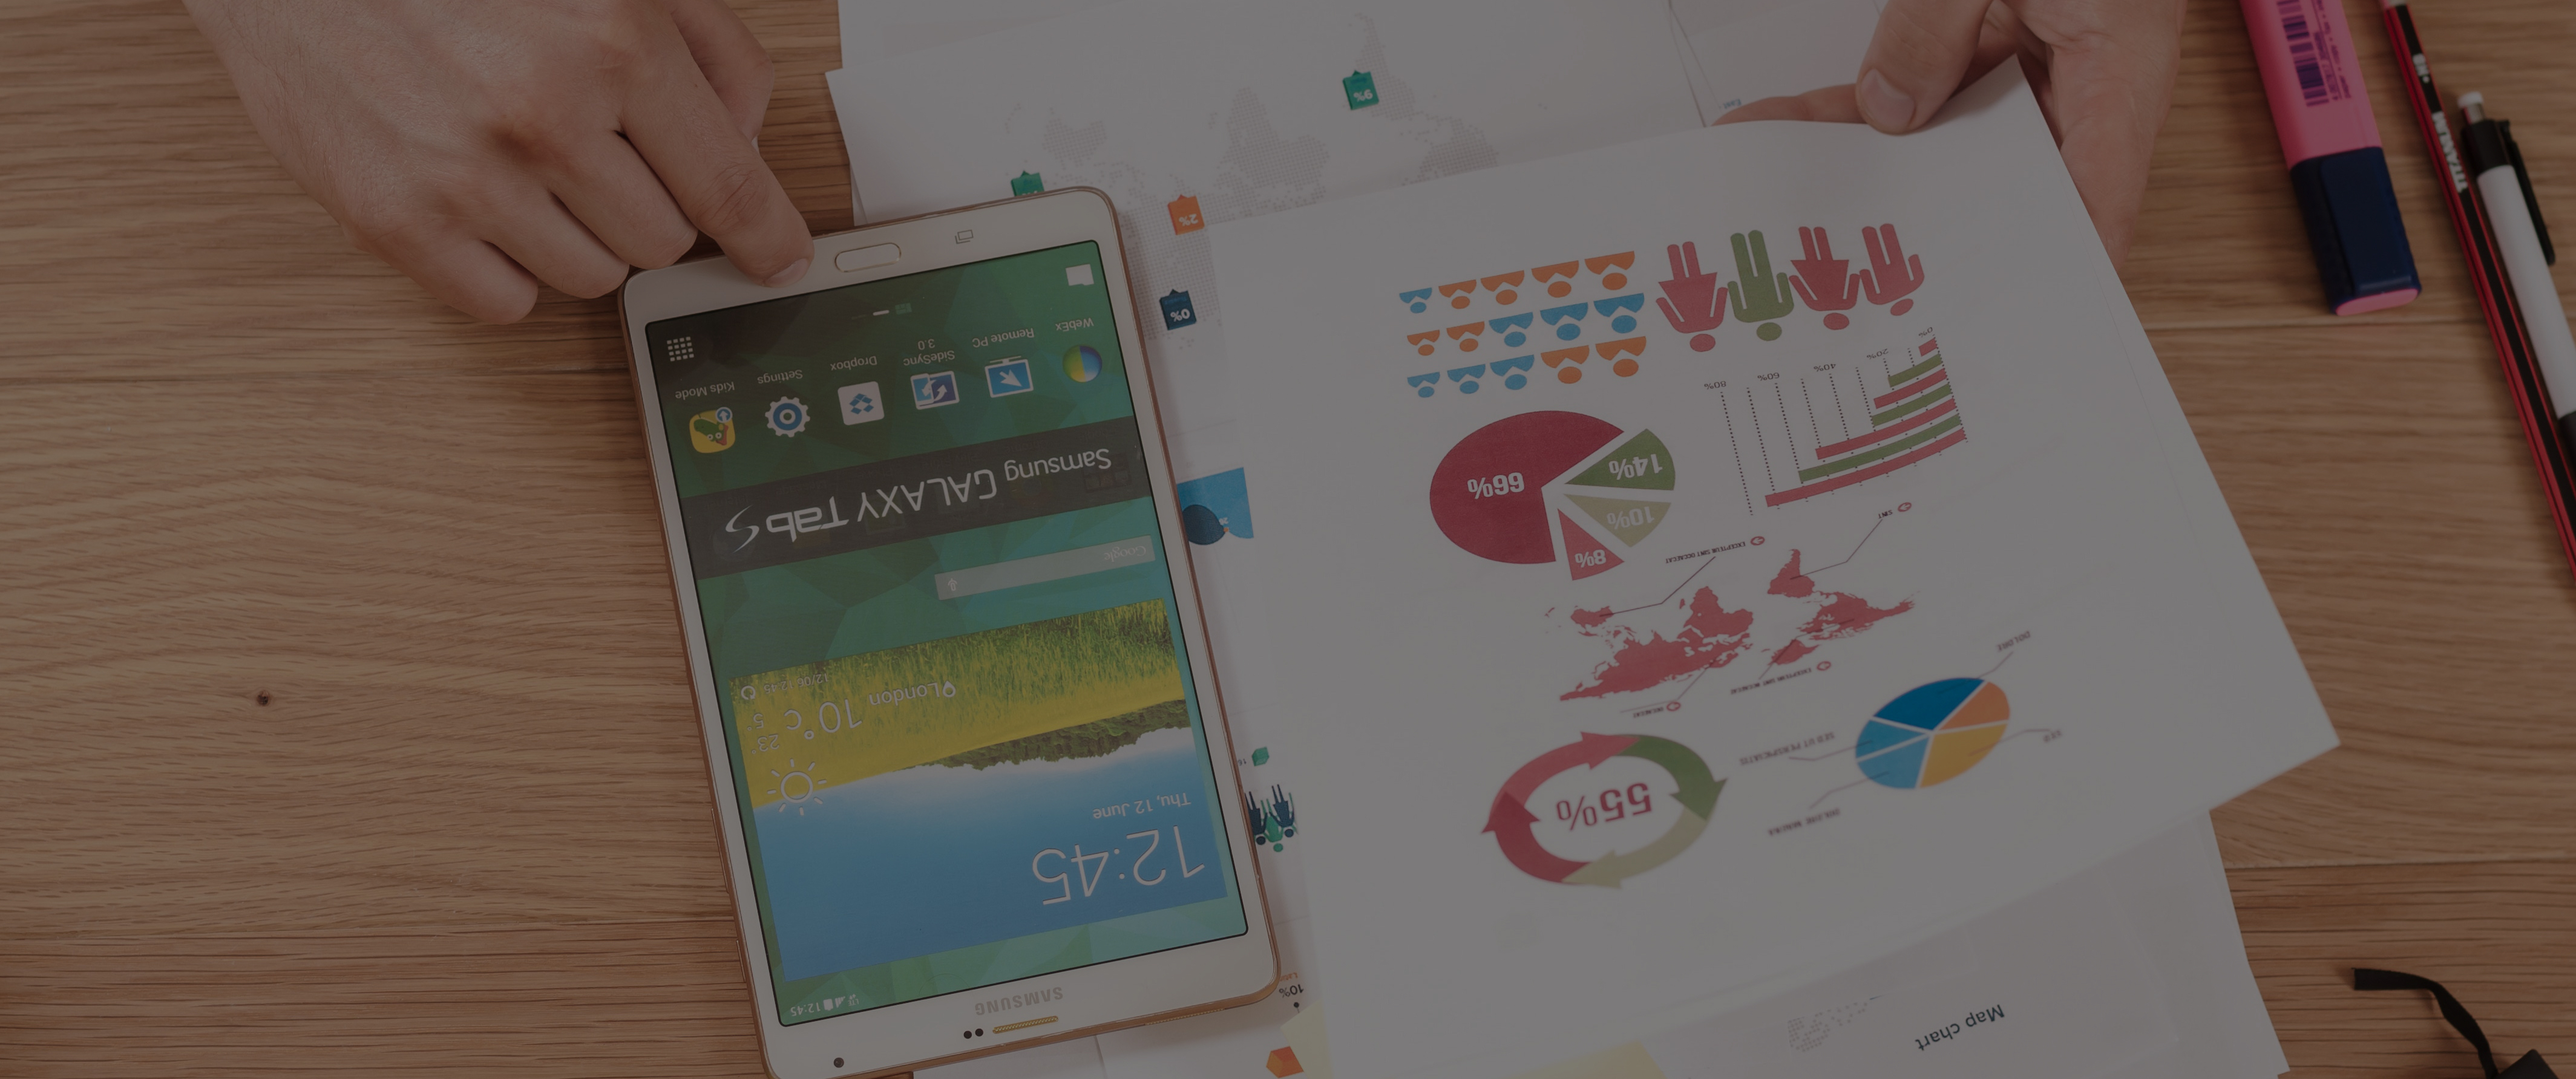
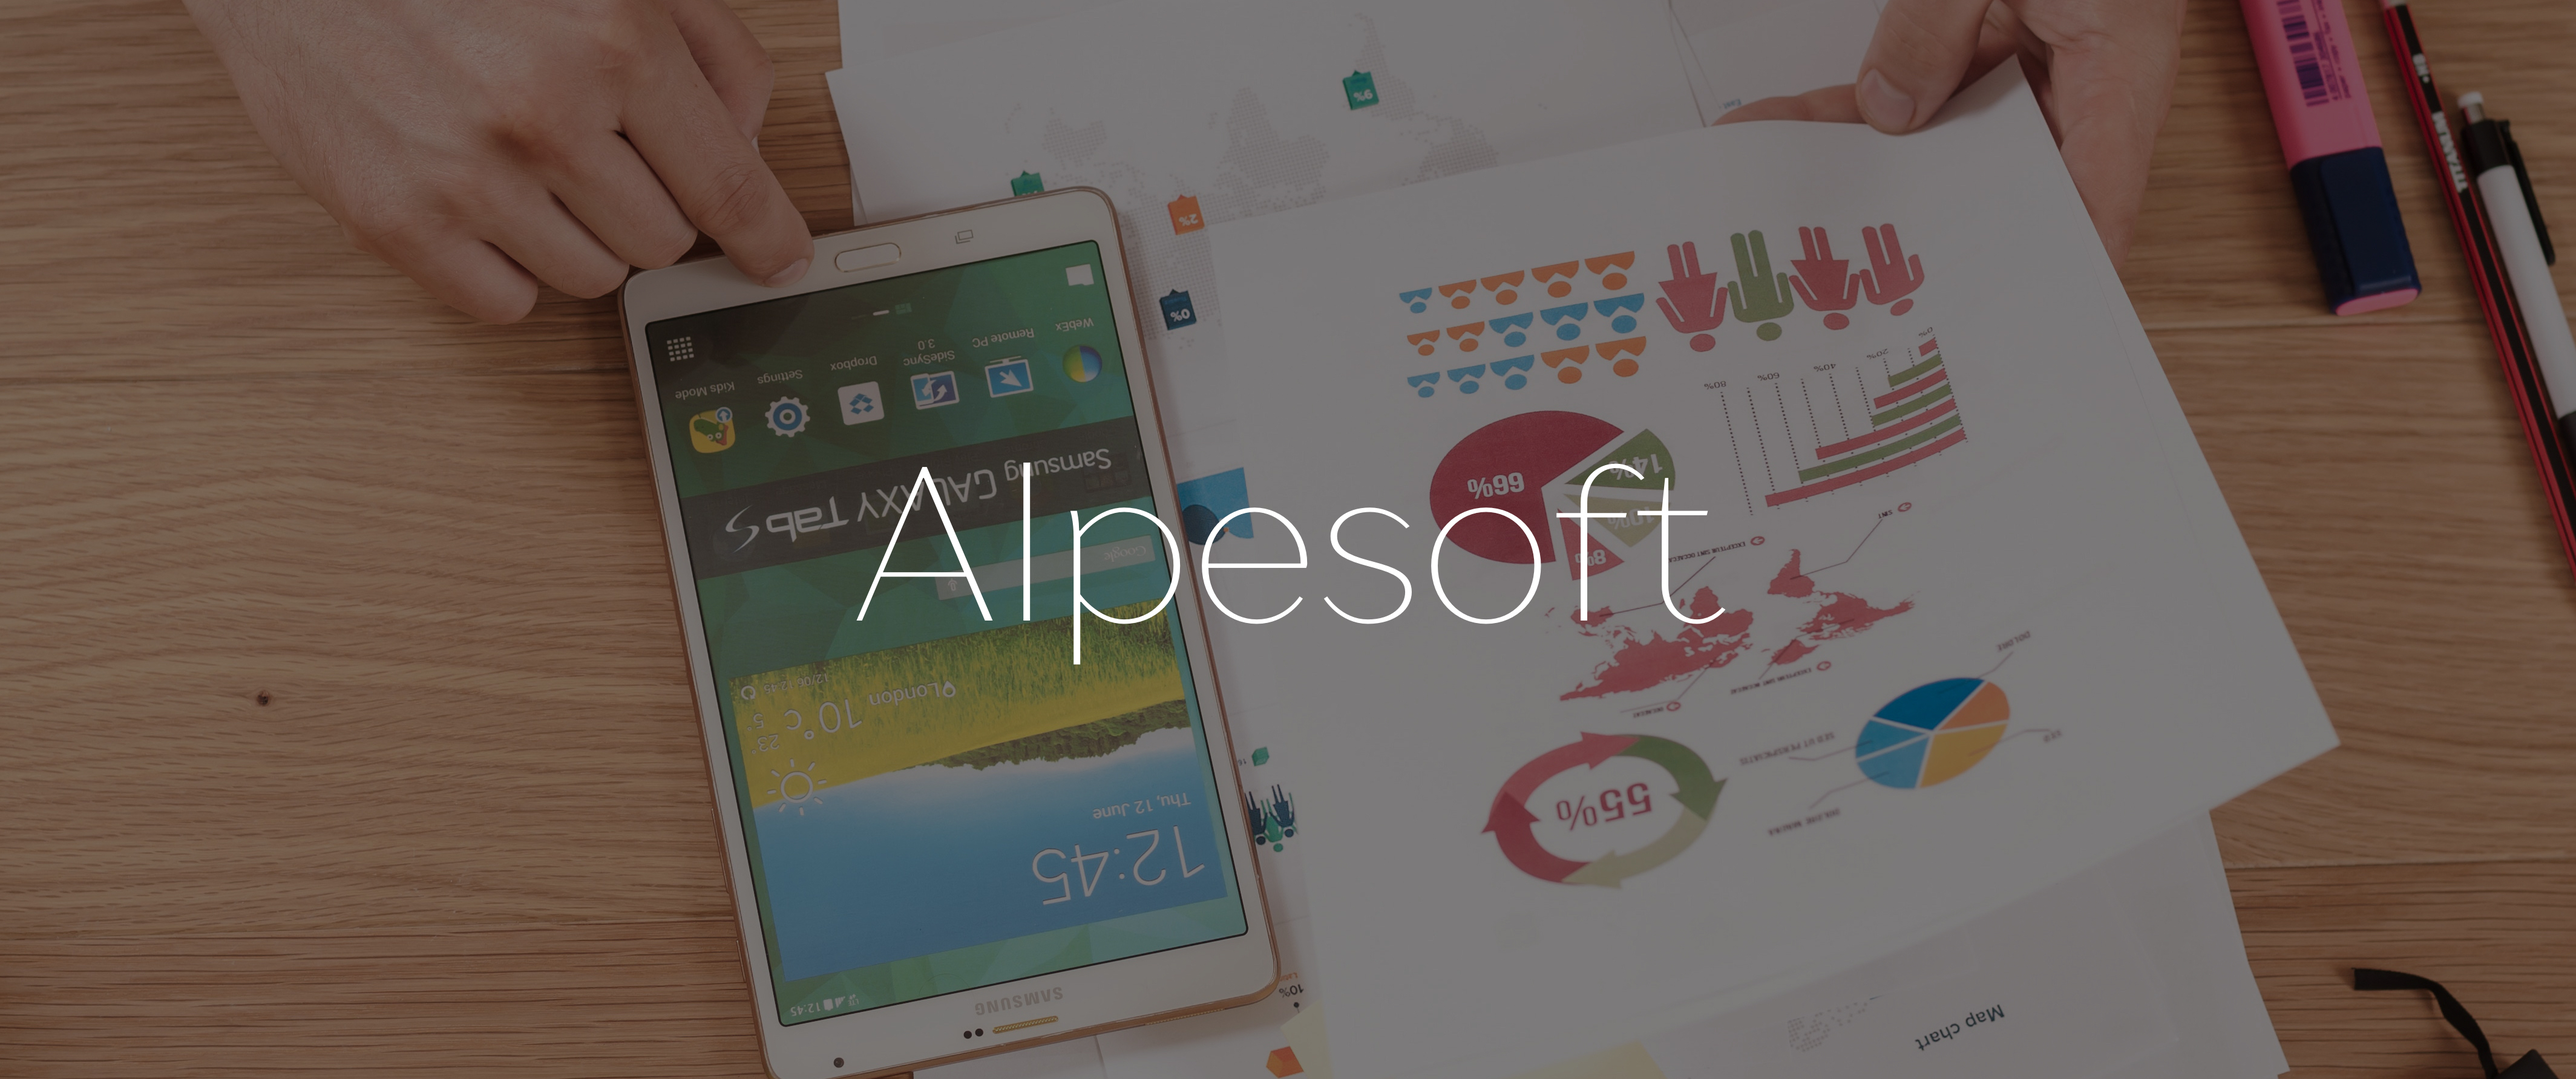
Final Version

diff --git a/proyecto.html b/proyecto.html
@@ -6,12 +6,12 @@
 		<title>F. Andres Vera</title>
 		<link rel="stylesheet" type="text/css" href="proyecto/css/main.css">
 		<link href="https://fonts.googleapis.com/css?family=Quicksand" rel="stylesheet">
-		<link rel="stylesheet" href="https://www.w3schools.com/w3css/4/w3.css">
 	</head>
 	<body>
 		
 		<div class="wrapper">
 			<!--Section 0 - Index -->
+			<!--efecto parallax para las imagenes de fondo-->
 			<div class="parallax-window" data-parallax="scroll" data-image-src="/proyecto/img/fondo.jpg">
 				<header>
 					<nav>
@@ -21,10 +21,12 @@
 						</div>
 						<div class="menu">
 							<ul>
+								<!-- link a pagina de perfil -->
 								<li><a href="/perfil.html">PERFIL</a></li>
 							</ul>
 						</div>		
 					</nav>
+					<!-- codigo svg exportado desde Illustrator, como medio grafico para animacion del logotipo "AV (Siglas de Andrés Vera)" -->
 					<svg class="logosvg" version="1.1" id="Capa_1" xmlns="http://www.w3.org/2000/svg" xmlns:xlink="http://www.w3.org/1999/xlink" x="0px" y="0px" viewBox="0 0 406 345" style="enable-background:new 0 0 406 345;" xml:space="preserve" alt="logo">
 						<style type="text/css">
 							.st0{fill:none;stroke:#FFFFFF;stroke-width:2;stroke-miterlimit:10;}
@@ -37,6 +39,7 @@
 						</g>
 
 					</svg>
+					<!-- fin svg -->
 				</header>
 			</div>
 			
@@ -46,19 +49,73 @@
 			</div>
 		</div>
 
+		<!--slide con imagenes que redireccionan a la seccion correspondiente en la pagina-->
+
 		<div class="contentslide">
-			 <img class="mySlides" src="proyecto/img/abinbev.jpg" alt="Ab inBev">
-			 <img class="mySlides" src="proyecto/img/primid.jpg" alt="Primid">
-		     <img class="mySlides" src="proyecto/img/oilcol.jpg" alt="OilCol">
-			 <img class="mySlides" src="proyecto/img/alpesoft.jpg" alt="Alpesoft">
+			 <a href="#abinbev"><img class="Slides" src="proyecto/img/abinbev.jpg" alt="Ab inBev"></a>
+			 <a href="#Primid"><img class="Slides" src="proyecto/img/primid.jpg" alt="Primid"></a>
+		     <a href="#Oilcol"><img class="Slides" src="proyecto/img/oilcol.jpg" alt="OilCol"></a>
+			 <a href="#Alpesoft"><img class="Slides" src="proyecto/img/alpesoft.jpg" alt="Alpesoft"></a>
 
-			 <button class="w3-button w3-black w3-display-left" onclick="plusDivs(-1)">&#10094;</button>
-			 <button class="w3-button w3-black w3-display-right" onclick="plusDivs(1)">&#10095;</button>
+			 <button class="bttn bttnblack bttnleft" onclick="plusDivs(-1)">&#10094;</button>
+			 <button class="bttn bttnblack bttnright" onclick="plusDivs(1)">&#10095;</button>
 		</div>
 
-		<div class="abinbev">
-				<p>lorem </p>
+
+<!-- seccion de abinbev -->
+		<a name="abinbev"></a><div class="abinbev">
+				<div class="parallax-window" data-parallax="scroll" data-image-src="/proyecto/img/abinbevuno.jpg">
+					<div class="transparent">
+					</div>
+				
+				</div>
+
+				<p>Ab inBev es una compañia multinacional en Colombia, dueña de la cervecera mas grande del pais Bavaria, y actualmente una de las compañias mas fuertes en el sector cervecero a nivel mundial. Existen areas de dicha empresa que mantienen cierto grado de confidencialidad. Por esa razon, se creo un portal interactivo que funcionara como repositorio de datos de alta importancia y de clasificacion confidencial para personal dentro y fuera de la empresa. </p>
+
 		</div>
+
+<!-- seccion de primid -->
+		<a name="Primid"></a><div class="Primid">
+				<div class="parallax-window" data-parallax="scroll" data-image-src="/proyecto/img/primiduno.jpg">
+					<div class="transparent">
+					</div>
+				
+				</div>
+
+				<p>Primid fue un proyecto realizado en grupo con 4 compañeros. La mayoria de ellos Ingenieros de Sistemas, pero algunos tambien con conocimientos en Diseño Industrial. Se creo una aplicacion web con el fin de poder organizar itinerarios para viajeros en diferentes lugares del mundo. Tal aplicacion contaba con un sistema de back-end, que lograba la autenticacion ante el portal.</p>
+
+		</div>
+
+<!-- seccion de oilcol -->
+		<a name="Oilcol"></a><div class="Oilcol">
+				<div class="parallax-window" data-parallax="scroll" data-image-src="/proyecto/img/oilcoluno.jpg">
+					<div class="transparent">
+					</div>
+				
+				</div>
+
+				<p>OilCol es una implementacion de IoT "Internet of Things" que fue creado con un grupo de trabajo, para una empresa creada por el departamento de Ingenieria de Sistemas de la Universidad de los Andes, con el fin de ser material de caso de estudio e implementacion basica de sensores que midieran estadisticas importantes.</p>
+
+		</div>
+
+<!-- seccion de alpesoft -->
+		<a name="Alpesoft"></a><div class="Alpesoft">
+				<div class="parallax-window" data-parallax="scroll" data-image-src="/proyecto/img/alpesoftuno.jpg">
+					<div class="transparent">
+					</div>
+				
+				</div>
+
+				<p>Alpesoft es una empresa creada por el departamento de Ingenieria de Sistemas de la Universidad de los Andes, la cual fue caso de estudio de negocio y a la que se le implemento mediante la solucion de una nueva idea y descripcion de negocio, un sistema informatico que ayudara a generar ganancias a nivel gerencial.</p>
+
+		</div>
+
+		<br>
+		<br>
+		<br>
+		<br>
+
+		<!--implementacion de scripts locales y de js -->
 
 		<script src="proyecto/js/funciones.js"></script>
 		<script src="https://code.jquery.com/jquery-3.2.1.slim.min.js" integrity="sha384-KJ3o2DKtIkvYIK3UENzmM7KCkRr/rE9/Qpg6aAZGJwFDMVNA/GpGFF93hXpG5KkN" crossorigin="anonymous"></script>

diff --git a/Proyecto/css/main.css b/Proyecto/css/main.css
@@ -8,6 +8,8 @@ body {
   font-family: 'Quicksand', sans-serif;
 }
 
+/*Codigo CSS que permite la correcta ubicacion y animacion del logotipo */
+
 .logosvg{
   position: absolute;
   top: 45%;
@@ -23,6 +25,8 @@ path {
   opacity: 10;
   animation: animate 3s cubic-bezier(0,0.23,1,.1);
 }
+
+/*keyframe para la animacion del svg del logotipo*/
 
 @keyframes animate {
   0% {
@@ -48,6 +52,8 @@ path {
     stroke-dashoffset: 0;
   }
 }
+
+/*---*/
 
 header {
   width: 100%;
@@ -129,12 +135,56 @@ nav ul li a{
   position: relative;
 }
 
-.mySlides{
+.Slides{
   width: 100%;
   height: 400px;
 
 
 }
+
+.bttn{
+  border:none;
+  display:inline-block;
+  padding:8px 16px;
+  vertical-align:middle;
+  overflow:hidden;
+  text-decoration:none;
+  color:inherit;
+  background-color:inherit;
+  text-align:center;
+  cursor:pointer;
+  white-space:nowrap;
+  -webkit-touch-callout:none;
+  -webkit-user-select:none;
+  -khtml-user-select:none;
+  -moz-user-select:none;
+  -ms-user-select:none;
+  user-select:none
+}
+
+.bttnblack{
+  color:#fff!important;
+  background-color:#000!important;
+
+}
+
+.bttnleft {
+  position:absolute;
+  top:50%;
+  left:0%;
+  transform:translate(0%,-50%);
+  -ms-transform:translate(-0%,-50%);
+}
+
+.bttnright {
+  position:absolute;
+  top:50%;
+  right:0%;
+  transform:translate(0%,-50%);
+  -ms-transform:translate(0%,-50%);
+}
+
+
 
 h1{
   margin: auto;
@@ -179,4 +229,119 @@ div h2{
   color: white;
 }
 
+.abinbev{
+  width: 100%
+  height: 100%;
+  margin: auto;
+  margin-top: 60px;
+  font-size: 20px;
+  line-height: 30px;
+  text-align: justify;
+
+}
+
+.abinbev .transparent{
+  color: transparent;
+  width: 900px;
+  height: 900px;
+}
+
+.abinbev p{
+  margin: auto;
+  margin-top: 60px;
+  margin-left: 15%;
+  margin-right: 15%;
+  font-size: 20px;
+  line-height: 30px;
+  text-align: justify;
+  color: black;
+
+}
+
+.Primid{
+  width: 100%
+  height: 100%;
+  margin: auto;
+  margin-top: 60px;
+  font-size: 20px;
+  line-height: 30px;
+  text-align: justify;
+
+}
+
+.Primid .transparent{
+  color: transparent;
+  width: 900px;
+  height: 900px;
+}
+
+.Primid p{
+  margin: auto;
+  margin-top: 60px;
+  margin-left: 15%;
+  margin-right: 15%;
+  font-size: 20px;
+  line-height: 30px;
+  text-align: justify;
+  color: black;
+
+}
+
+.Oilcol{
+  width: 100%
+  height: 100%;
+  margin: auto;
+  margin-top: 60px;
+  font-size: 20px;
+  line-height: 30px;
+  text-align: justify;
+
+}
+
+.Oilcol .transparent{
+  color: transparent;
+  width: 900px;
+  height: 900px;
+}
+
+.Oilcol p{
+  margin: auto;
+  margin-top: 60px;
+  margin-left: 15%;
+  margin-right: 15%;
+  font-size: 20px;
+  line-height: 30px;
+  text-align: justify;
+  color: black;
+
+}
+
+.Alpesoft{
+  width: 100%
+  height: 100%;
+  margin: auto;
+  margin-top: 60px;
+  font-size: 20px;
+  line-height: 30px;
+  text-align: justify;
+
+}
+
+.Alpesoft .transparent{
+  color: transparent;
+  width: 900px;
+  height: 900px;
+}
+
+.Alpesoft p{
+  margin: auto;
+  margin-top: 60px;
+  margin-left: 15%;
+  margin-right: 15%;
+  font-size: 20px;
+  line-height: 30px;
+  text-align: justify;
+  color: black;
+
+}
 

diff --git a/Proyecto/js/funciones.js b/Proyecto/js/funciones.js
@@ -1,20 +1,22 @@
 "use strict";
-var slideIndex = 1;
-showDivs(slideIndex);
+/*codigo en js para el slide de imagenes principal.*/
+var slideFotos = 1;
+
+mostrarD(slideFotos);
 
 function plusDivs(n) {
   'use strict';
-  showDivs(slideIndex += n);
+  mostrarD(slideFotos += n);
 }
 
-function showDivs(n) {
+function mostrarD(n) {
   'use strict';
   var i;
-  var x = document.getElementsByClassName("mySlides");
-  if (n > x.length) {slideIndex = 1}    
-  if (n < 1) {slideIndex = x.length}
+  var x = document.getElementsByClassName("Slides");
+  if (n > x.length) {slideFotos = 1}    
+  if (n < 1) {slideFotos = x.length}
   for (i = 0; i < x.length; i++) {
      x[i].style.display = "none";  
   }
-  x[slideIndex-1].style.display = "block";  
+  x[slideFotos-1].style.display = "block";  
 }
